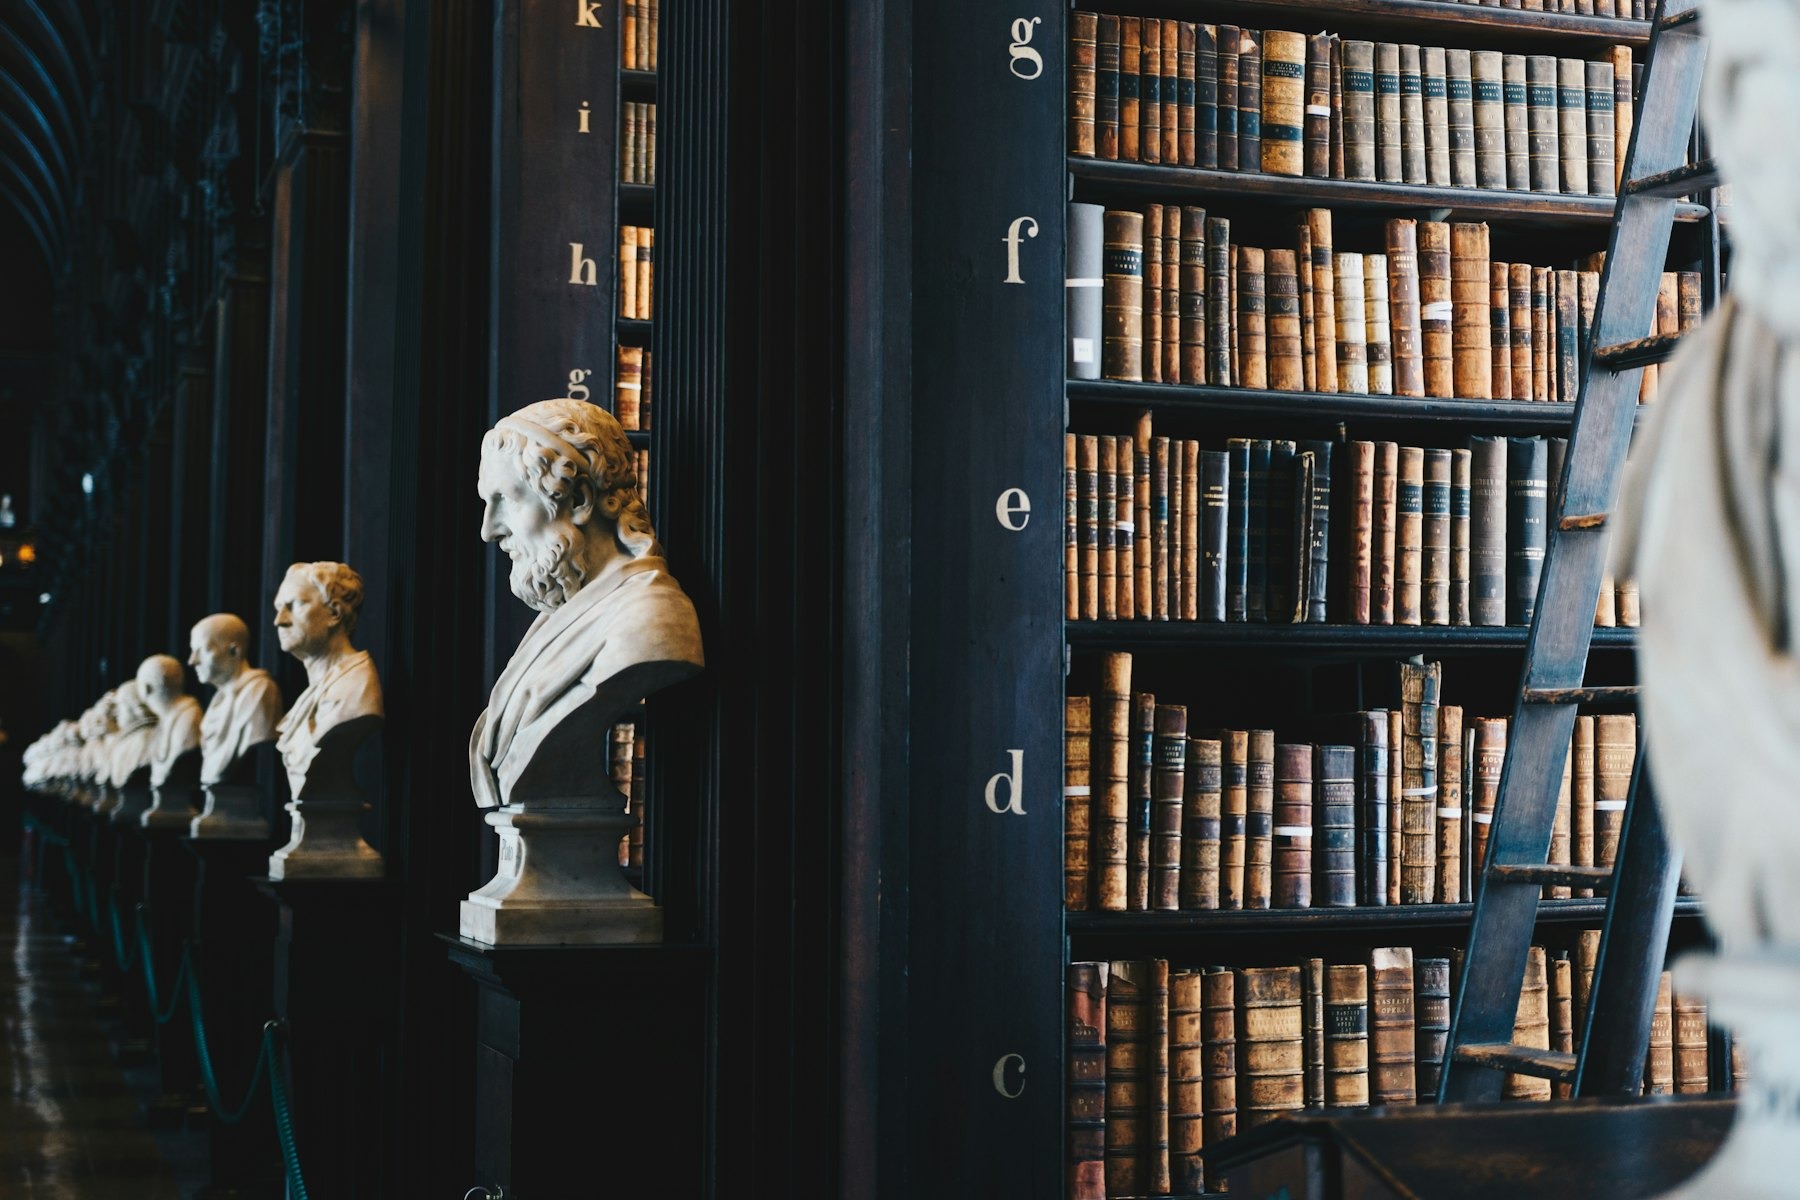
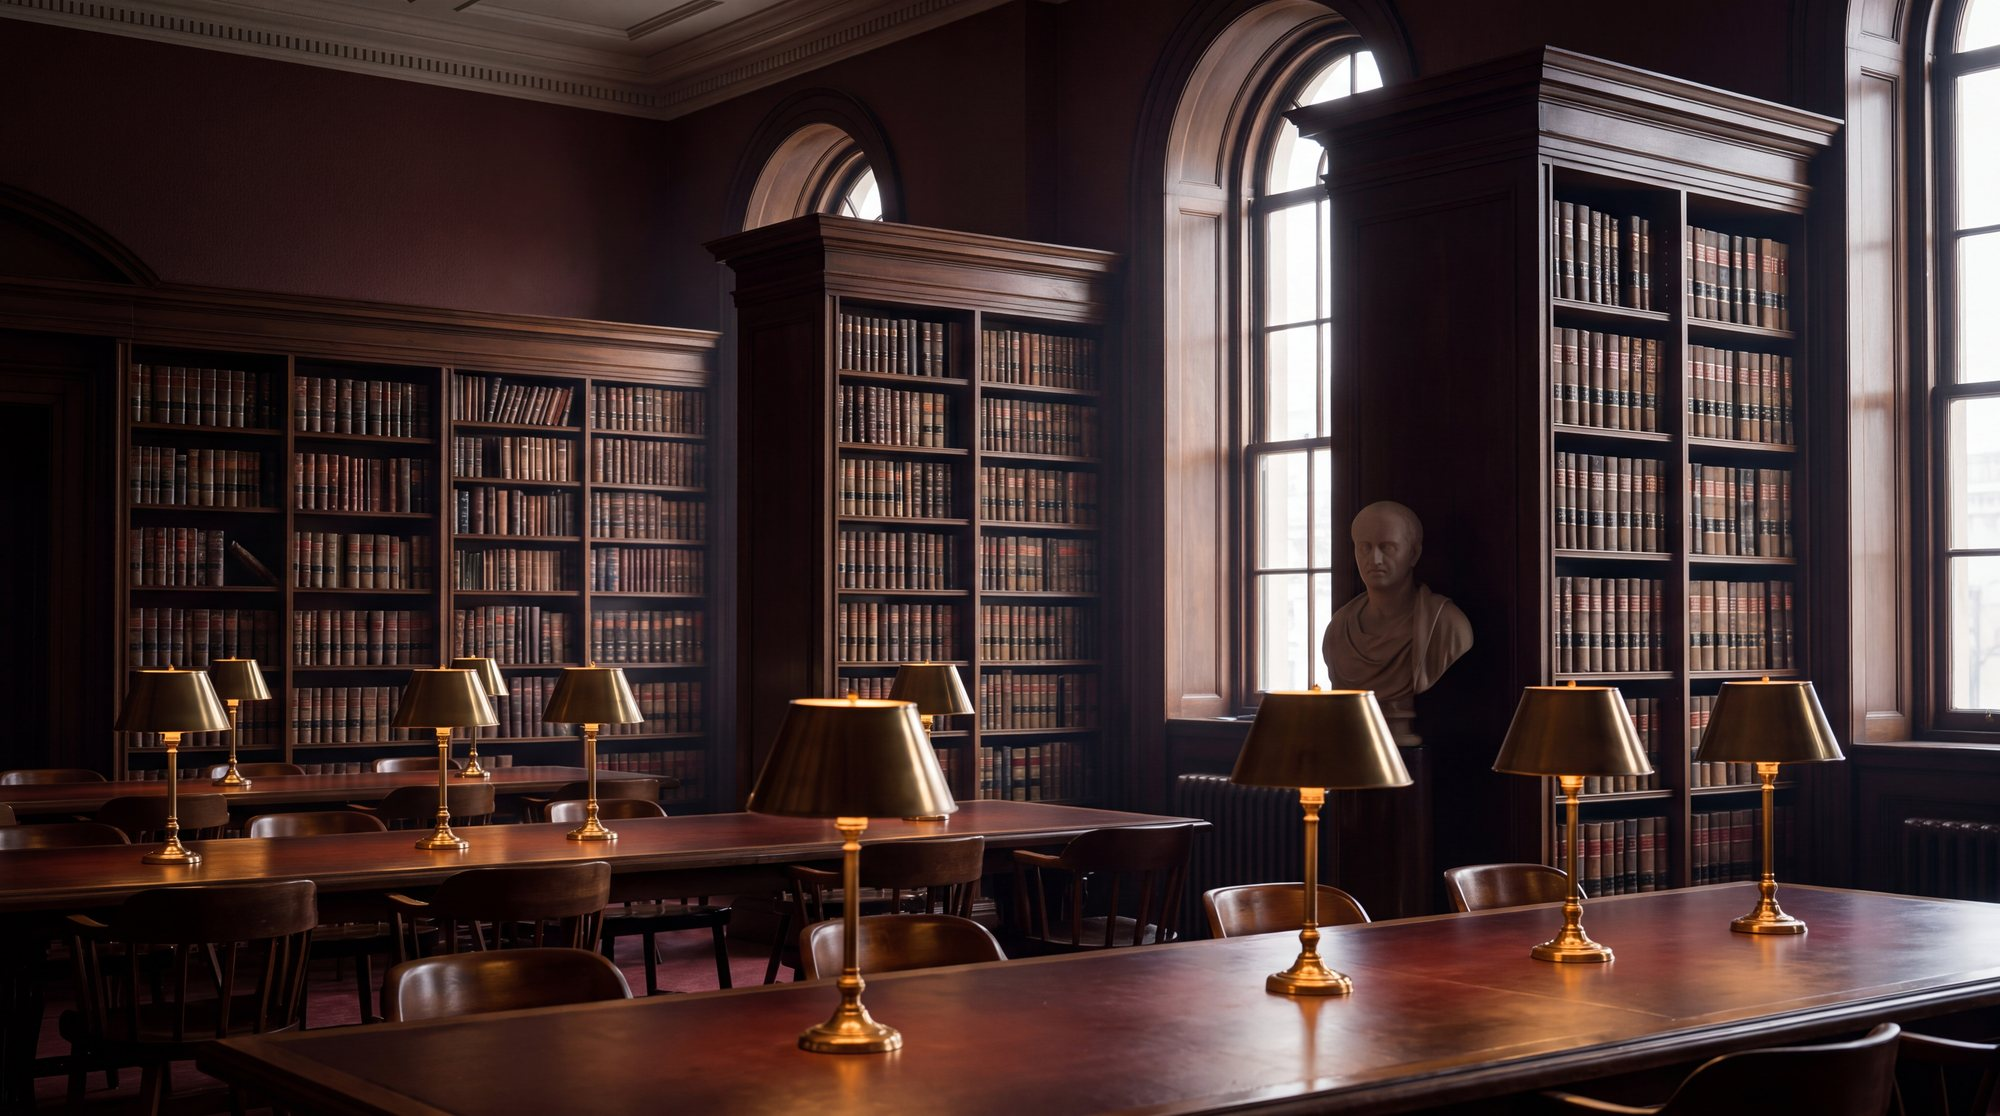
Iteracia 1.3: Kancelaria na urovni Ukazky 4 - bronzovy § naozaj, farebna fotografia (#56)
Ondrej (2026-09-04): generate the material and redesign 01 to the level
of 04, the same workflow, keep what works.

Kept: type-as-hero, the ink/oxblood/bronze climate, the practice
register with its photo easel, the roster, publications, the close.

Lifted:
- the bronze § is a REAL object now (statut-paragraph.tsx): the Georgia
  Bold glyph outline extruded and bevelled in WebGL, cast in bronze under
  a room environment - it idles, leans to the pointer and turns and sinks
  with the scroll (ScrollTrigger writes paraState; the frame loop damps).
  The homepage portal keeps the CSS glyph (no canvas there).
- photography generated for this concept in Higgsfield: the hero is a
  cinematic law library at dusk in colour (the duotone multiply eased to
  let the oxblood and brass through), the team stands over a blue-hour
  glass meeting room, the register and the close carry a fountain-pen
  macro, Sudne spory a marble-and-bronze detail.

Validation: LOCAL - npm run verify green; playwright green.

diff --git a/components/concepts/statut-paragraph.tsx b/components/concepts/statut-paragraph.tsx
@@ -1,0 +1,110 @@
+"use client"
+
+/**
+ * The bronze § — the Kancelária ornament as a REAL object (Iterácia 1.3,
+ * Ondrej's brief 2026-09-04: lift 01 to the level of 04). A Georgia Bold
+ * paragraph glyph extruded and bevelled in WebGL, cast in bronze under a
+ * room environment. It idles slowly, leans toward the pointer and turns
+ * and sinks with the scroll (the site writes `paraState` from its
+ * ScrollTrigger; the frame loop damps toward it). Reduced motion: a still,
+ * lit cast. Loaded client-only; the homepage portal keeps the CSS glyph.
+ */
+
+import { Canvas, useFrame, useThree } from "@react-three/fiber"
+import { useEffect, useMemo, useRef } from "react"
+import * as THREE from "three"
+import { RoomEnvironment } from "three/examples/jsm/environments/RoomEnvironment.js"
+
+/** Scroll progress through the hero (0..1) + pointer (-0.5..0.5). */
+export const paraState = { p: 0, px: 0, py: 0 }
+
+/* Georgia Bold §, y flipped for three, 100 units per em */
+const CMDS: (string | number)[][] = [["M",50.44,31.45],["L",50.44,31.45],["Q",50.44,26.27,47,22.61],["Q",43.55,18.95,37.79,17.04],["L",37.79,17.04],["Q",42.77,14.99,45.31,11.57],["Q",47.85,8.15,47.85,4.05],["L",47.85,4.05],["Q",47.85,-2.54,41.72,-6.93],["Q",35.6,-11.33,24.95,-11.33],["L",24.95,-11.33],["Q",19.87,-11.33,16.5,-10.38],["Q",13.13,-9.42,11.08,-7.96],["L",11.08,-7.96],["Q",9.03,-6.49,8.18,-4.76],["Q",7.32,-3.03,7.32,-1.51],["L",7.32,-1.51],["Q",7.32,1.17,8.91,2.91],["Q",10.5,4.64,13.53,4.64],["L",13.53,4.64],["Q",15.67,4.64,17.24,3.52],["Q",18.8,2.39,19.87,0.59],["L",19.87,0.59],["Q",20.9,-1.12,21.61,-3.05],["Q",22.31,-4.98,23.1,-7.18],["L",23.1,-7.18],["Q",23.34,-7.23,23.78,-7.28],["Q",24.22,-7.32,24.46,-7.32],["L",24.46,-7.32],["Q",29.05,-7.32,32.06,-5.57],["Q",35.06,-3.81,35.06,0.1],["L",35.06,0.1],["Q",35.06,2.44,34.08,4.05],["Q",33.11,5.66,31.2,6.93],["L",31.2,6.93],["Q",29.35,8.25,26.27,9.55],["Q",23.19,10.84,20.17,12.06],["L",20.17,12.06],["Q",12.79,15.04,9.35,18.82],["Q",5.91,22.61,5.91,28.22],["L",5.91,28.22],["Q",5.91,33.01,8.69,36.52],["Q",11.47,40.04,18.55,42.63],["L",18.55,42.63],["Q",13.09,44.87,10.6,48.32],["Q",8.11,51.76,8.11,56.1],["L",8.11,56.1],["Q",8.11,62.5,14.45,66.75],["Q",20.8,71,30.91,71],["L",30.91,71],["Q",35.74,71,39.21,70.07],["Q",42.68,69.14,44.78,67.63],["L",44.78,67.63],["Q",46.78,66.21,47.66,64.48],["Q",48.54,62.74,48.54,61.18],["L",48.54,61.18],["Q",48.54,58.59,47.05,56.81],["Q",45.56,55.03,42.33,55.03],["L",42.33,55.03],["Q",40.09,55.03,38.6,56.15],["Q",37.11,57.28,35.99,59.08],["L",35.99,59.08],["Q",35.06,60.55,34.2,62.92],["Q",33.35,65.28,32.76,66.85],["L",32.76,66.85],["Q",32.42,66.94,32.03,66.97],["Q",31.64,66.99,31.4,66.99],["L",31.4,66.99],["Q",26.81,66.99,23.85,65.16],["Q",20.9,63.33,20.9,59.57],["L",20.9,59.57],["Q",20.9,57.13,21.9,55.57],["Q",22.9,54,24.95,52.69],["L",24.95,52.69],["Q",27,51.37,29.98,50.15],["Q",32.96,48.93,36.18,47.61],["L",36.18,47.61],["Q",43.51,44.68,46.97,40.97],["Q",50.44,37.26,50.44,31.45],["M",37.99,28.17],["L",37.99,28.17],["Q",37.99,30.71,36.87,32.5],["Q",35.74,34.28,33.64,35.69],["L",33.64,35.69],["Q",31.74,37.01,28.34,38.48],["Q",24.95,39.94,22.51,41.02],["L",22.51,41.02],["Q",20.7,39.45,19.53,36.69],["Q",18.36,33.94,18.36,31.49],["L",18.36,31.49],["Q",18.36,28.91,19.58,27.08],["Q",20.8,25.24,22.85,23.88],["L",22.85,23.88],["Q",25.1,22.41,28,21.17],["Q",30.91,19.92,33.84,18.65],["L",33.84,18.65],["Q",36.23,20.75,37.11,23.14],["Q",37.99,25.54,37.99,28.17]]
+
+function glyphGeometry() {
+  const path = new THREE.ShapePath()
+  for (const c of CMDS) {
+    const n = c.slice(1) as number[]
+    if (c[0] === "M") {
+      path.moveTo(n[0], n[1])
+    } else if (c[0] === "L") {
+      path.lineTo(n[0], n[1])
+    } else if (c[0] === "Q") {
+      path.quadraticCurveTo(n[0], n[1], n[2], n[3])
+    } else if (c[0] === "C") {
+      path.bezierCurveTo(n[0], n[1], n[2], n[3], n[4], n[5])
+    }
+  }
+  const geo = new THREE.ExtrudeGeometry(path.toShapes(), {
+    depth: 13,
+    bevelEnabled: true,
+    bevelThickness: 2.4,
+    bevelSize: 2.2,
+    bevelSegments: 5,
+    curveSegments: 14,
+  })
+  geo.center()
+  geo.scale(0.03, 0.03, 0.03)
+  return geo
+}
+
+function Bronze() {
+  const mesh = useRef<THREE.Mesh>(null)
+  const geo = useMemo(glyphGeometry, [])
+  const gl = useThree((s) => s.gl)
+  const scene = useThree((s) => s.scene)
+  const cur = useRef({ p: 0, px: 0, py: 0 })
+  useEffect(() => {
+    const pm = new THREE.PMREMGenerator(gl)
+    const env = pm.fromScene(new RoomEnvironment(), 0.04).texture
+    scene.environment = env
+    pm.dispose()
+    return () => {
+      env.dispose()
+    }
+  }, [gl, scene])
+  useEffect(() => {
+    const move = (e: PointerEvent) => {
+      paraState.px = e.clientX / window.innerWidth - 0.5
+      paraState.py = e.clientY / window.innerHeight - 0.5
+    }
+    window.addEventListener("pointermove", move)
+    return () => window.removeEventListener("pointermove", move)
+  }, [])
+  useFrame((state, dt) => {
+    const m = mesh.current
+    if (!m) {
+      return
+    }
+    const still = window.matchMedia("(prefers-reduced-motion: reduce)").matches
+    const k = 1 - 0.002 ** dt
+    const c = cur.current
+    c.p += (paraState.p - c.p) * k
+    c.px += (paraState.px - c.px) * k
+    c.py += (paraState.py - c.py) * k
+    const t = still ? 0 : state.clock.elapsedTime
+    m.rotation.y = 0.35 + Math.sin(t * 0.35) * 0.28 + c.px * 0.7 + c.p * 1.7
+    m.rotation.x = 0.1 + c.py * 0.4 + c.p * 0.5
+    m.rotation.z = 0.16
+    m.position.y = -c.p * 1.6
+  })
+  return (
+    <mesh ref={mesh} geometry={geo}>
+      <meshStandardMaterial color="#C98F5F" metalness={1} roughness={0.22} envMapIntensity={1.15} />
+    </mesh>
+  )
+}
+
+export default function ParagraphCanvas() {
+  return (
+    <Canvas
+      dpr={[1, 1.75]}
+      camera={{ fov: 30, near: 0.1, far: 30, position: [0, 0, 5.6] }}
+      gl={{ antialias: true, alpha: true, toneMapping: THREE.ACESFilmicToneMapping, toneMappingExposure: 1.05 }}
+    >
+      <directionalLight position={[2.5, 3, 4]} intensity={2.2} color="#fff0dc" />
+      <directionalLight position={[-3, -1, 2]} intensity={0.9} color="#6E1F26" />
+      <Bronze />
+    </Canvas>
+  )
+}

diff --git a/components/concepts/statut.tsx b/components/concepts/statut.tsx
@@ -16,8 +16,10 @@
  * Photos: Unsplash licence, stored locally under /demos/kancelaria/.
  */
 
+import dynamic from "next/dynamic"
 import { useEffect, useRef, useState } from "react"
 import { fx, INST, KonceptLine, MONO, Shell } from "./shell"
+import { paraState } from "./statut-paragraph"
 
 const STONE = "#EDEDEA"
 const INK = "#101115"
@@ -25,12 +27,13 @@ const OX = "#6E1F26"
 const OXL = "#C9646C"
 
 const IMG = "/demos/kancelaria"
+const ParagraphCanvas = dynamic(() => import("./statut-paragraph"), { ssr: false })
 
 const PRACTICE = [
   ["01", "Obchodné právo", "Od zakladateľskej zmluvy po predaj firmy. Vedieme transakcie tak, aby ste podpisovali s pokojom.", `${IMG}/podpis.jpg`],
   ["02", "Nehnuteľnosti", "Kúpa, predaj a výstavba bez skrytých vád — právnych aj tých v katastri.", `${IMG}/mesto.jpg`],
   ["03", "Pracovné právo", "Poriadok vo vzťahoch so zamestnancami skôr, než ho bude vymáhať súd.", `${IMG}/kniznica.jpg`],
-  ["04", "Súdne spory", "Keď rokovanie skončilo. Pripravení, vecní, bez divadla.", `${IMG}/stlpy.jpg`],
+  ["04", "Súdne spory", "Keď rokovanie skončilo. Pripravení, vecní, bez divadla.", `${IMG}/mramor.jpg`],
   ["05", "Insolvencia", "Aj koniec sa dá urobiť poriadne — pre veriteľov aj pre dlžníka.", `${IMG}/hero.jpg`],
 ] as const
 
@@ -75,15 +78,15 @@ export function StatutHero({ portal = false }: { portal?: boolean }) {
       <div
         aria-hidden="true"
         className="kx-heroimg absolute inset-0 bg-cover bg-center"
-        style={{ backgroundImage: `url(${IMG}/hero.jpg)`, filter: "grayscale(1) contrast(1.12) brightness(0.6)" }}
+        style={{ backgroundImage: `url(${IMG}/hero.jpg)`, filter: "contrast(1.06) brightness(0.78) saturate(1.12)" }}
       />
-      <div aria-hidden="true" className="absolute inset-0" style={{ background: "linear-gradient(160deg, rgba(16,17,21,0.82) 0%, rgba(42,20,24,0.72) 55%, rgba(110,31,38,0.55) 100%)", mixBlendMode: "multiply" }} />
+      <div aria-hidden="true" className="absolute inset-0" style={{ background: "linear-gradient(160deg, rgba(16,17,21,0.7) 0%, rgba(42,20,24,0.35) 55%, rgba(110,31,38,0.25) 100%)", mixBlendMode: "multiply" }} />
       <div aria-hidden="true" className="absolute inset-0" style={{ background: "radial-gradient(70% 55% at 78% 82%, rgba(196,120,70,0.38) 0%, transparent 60%)" }} />
       <div aria-hidden="true" className="absolute inset-0" style={{ background: "radial-gradient(120% 90% at 50% 40%, transparent 55%, rgba(8,8,11,0.75) 100%)" }} />
 
-      <div aria-hidden="true" className={`kx-para-wrap absolute z-[6] ${portal ? "top-[4%] right-[6%]" : "top-[10%] right-[7%]"} hidden sm:block`}>
-        <Paragraph size={portal ? "10rem" : "clamp(13rem,36vh,24rem)"} />
-      </div>
+      {portal ? (<div aria-hidden="true" className="kx-para-wrap absolute top-[4%] right-[6%] z-[6] hidden sm:block">
+        <Paragraph size="10rem" /></div>) : (<div aria-hidden="true" className="kx-para-wrap absolute top-[4%] right-[2%] z-[6] hidden h-[min(66vh,680px)] w-[min(44vw,620px)] sm:block"><ParagraphCanvas />
+      </div>)}
 
       <header className={`relative z-10 flex items-baseline justify-between border-b border-[#EDEDEA]/25 px-[clamp(1.25rem,4vw,4rem)] ${portal ? "pt-6" : "pt-10"} pb-4`}>
         <span style={{ ...INST, fontSize: "1.5rem" }}>
@@ -196,9 +199,10 @@ export default function StatutSite() {
           { scale: 1, yPercent: -6, ease: "none", scrollTrigger: { trigger: ".kx-hero", start: "top top", end: "bottom top", scrub: true } }
         )
         /* the bronze § sinks and turns with the scroll */
+        ScrollTrigger.create({ trigger: ".kx-hero", start: "top top", end: "bottom top", scrub: true, onUpdate: (self) => { paraState.p = self.progress } })
         gsap.to(".kx-para-wrap", {
-          yPercent: 85,
-          rotation: 14,
+          yPercent: 30,
+          rotation: 0,
           ease: "none",
           scrollTrigger: { trigger: ".kx-hero", start: "top top", end: "bottom top", scrub: true },
         })
@@ -295,7 +299,7 @@ export default function StatutSite() {
       {/* ---- the roster — records, not stock suits ---- */}
       <Shell id="tim" className="relative overflow-hidden px-[clamp(1.25rem,4vw,4rem)] py-[11svh]" style={{ background: INK, color: STONE }}>
         <div aria-hidden="true" className="absolute inset-y-0 right-0 hidden w-[44%] lg:block">
-          <div className="absolute inset-0 bg-cover bg-center" style={{ backgroundImage: `url(${IMG}/stlpy.jpg)`, filter: "grayscale(1) contrast(1.1) brightness(0.5)" }} />
+          <div className="absolute inset-0 bg-cover bg-center" style={{ backgroundImage: `url(${IMG}/mesto.jpg)`, filter: "contrast(1.05) brightness(0.55) saturate(0.9)" }} />
           <div className="absolute inset-0" style={{ background: "linear-gradient(90deg, #101115 0%, rgba(16,17,21,0.4) 55%, rgba(110,31,38,0.35) 100%)" }} />
         </div>
         <div className="relative z-10 max-w-[44rem]">
@@ -352,7 +356,7 @@ export default function StatutSite() {
 
       {/* ---- close ---- */}
       <Shell id="kontakt" className="relative overflow-hidden px-[clamp(1.25rem,4vw,4rem)] py-[13svh]" style={{ background: INK, color: STONE }}>
-        <div aria-hidden="true" className="kx-closeimg absolute inset-0 bg-cover bg-center" style={{ backgroundImage: `url(${IMG}/podpis.jpg)`, filter: "grayscale(1) contrast(1.1) brightness(0.45)", transform: "scale(1.15)" }} />
+        <div aria-hidden="true" className="kx-closeimg absolute inset-0 bg-cover bg-center" style={{ backgroundImage: `url(${IMG}/podpis.jpg)`, filter: "contrast(1.05) brightness(0.5) saturate(1.05)", transform: "scale(1.15)" }} />
         <div aria-hidden="true" className="absolute inset-0" style={{ background: "linear-gradient(160deg, rgba(16,17,21,0.85) 0%, rgba(42,20,24,0.7) 60%, rgba(110,31,38,0.5) 100%)", mixBlendMode: "multiply" }} />
         <div className="relative z-10 mx-auto max-w-[50rem] text-center">
           <h2 className="wfx" style={{ ...INST, fontSize: "clamp(2.7rem,5.8vw,5.4rem)", lineHeight: 1.05, ...fx(0) }}>
